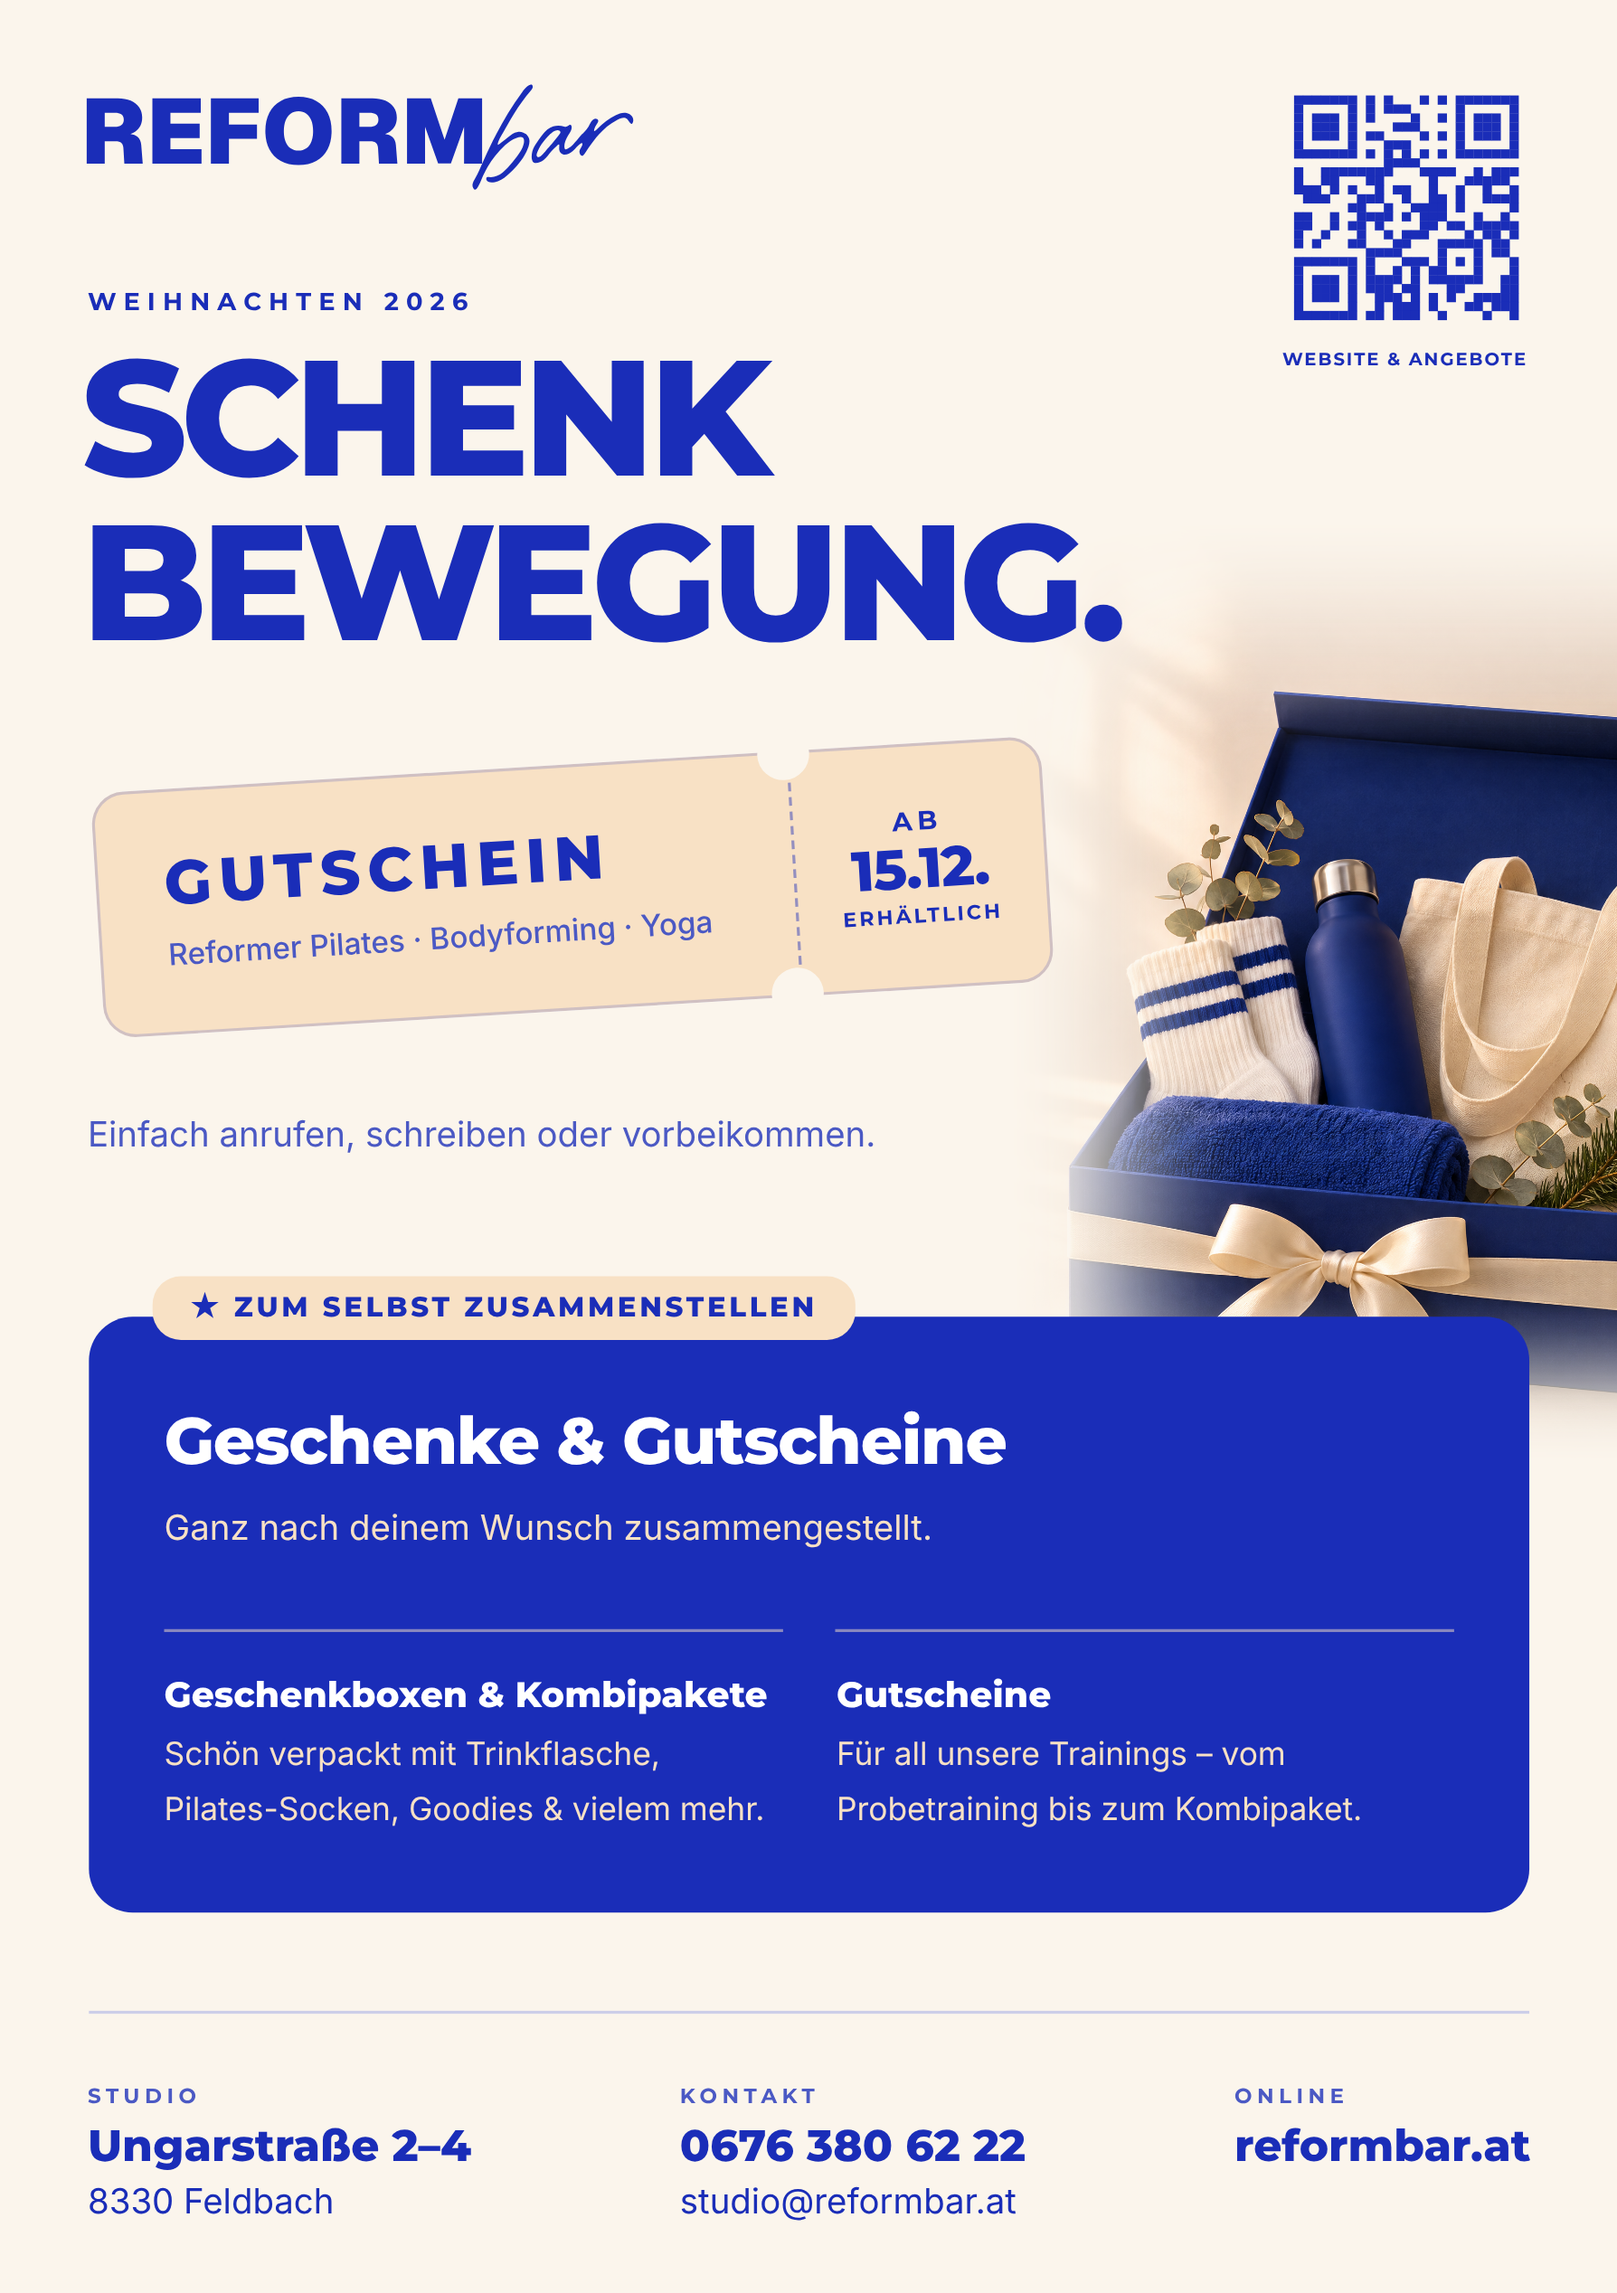
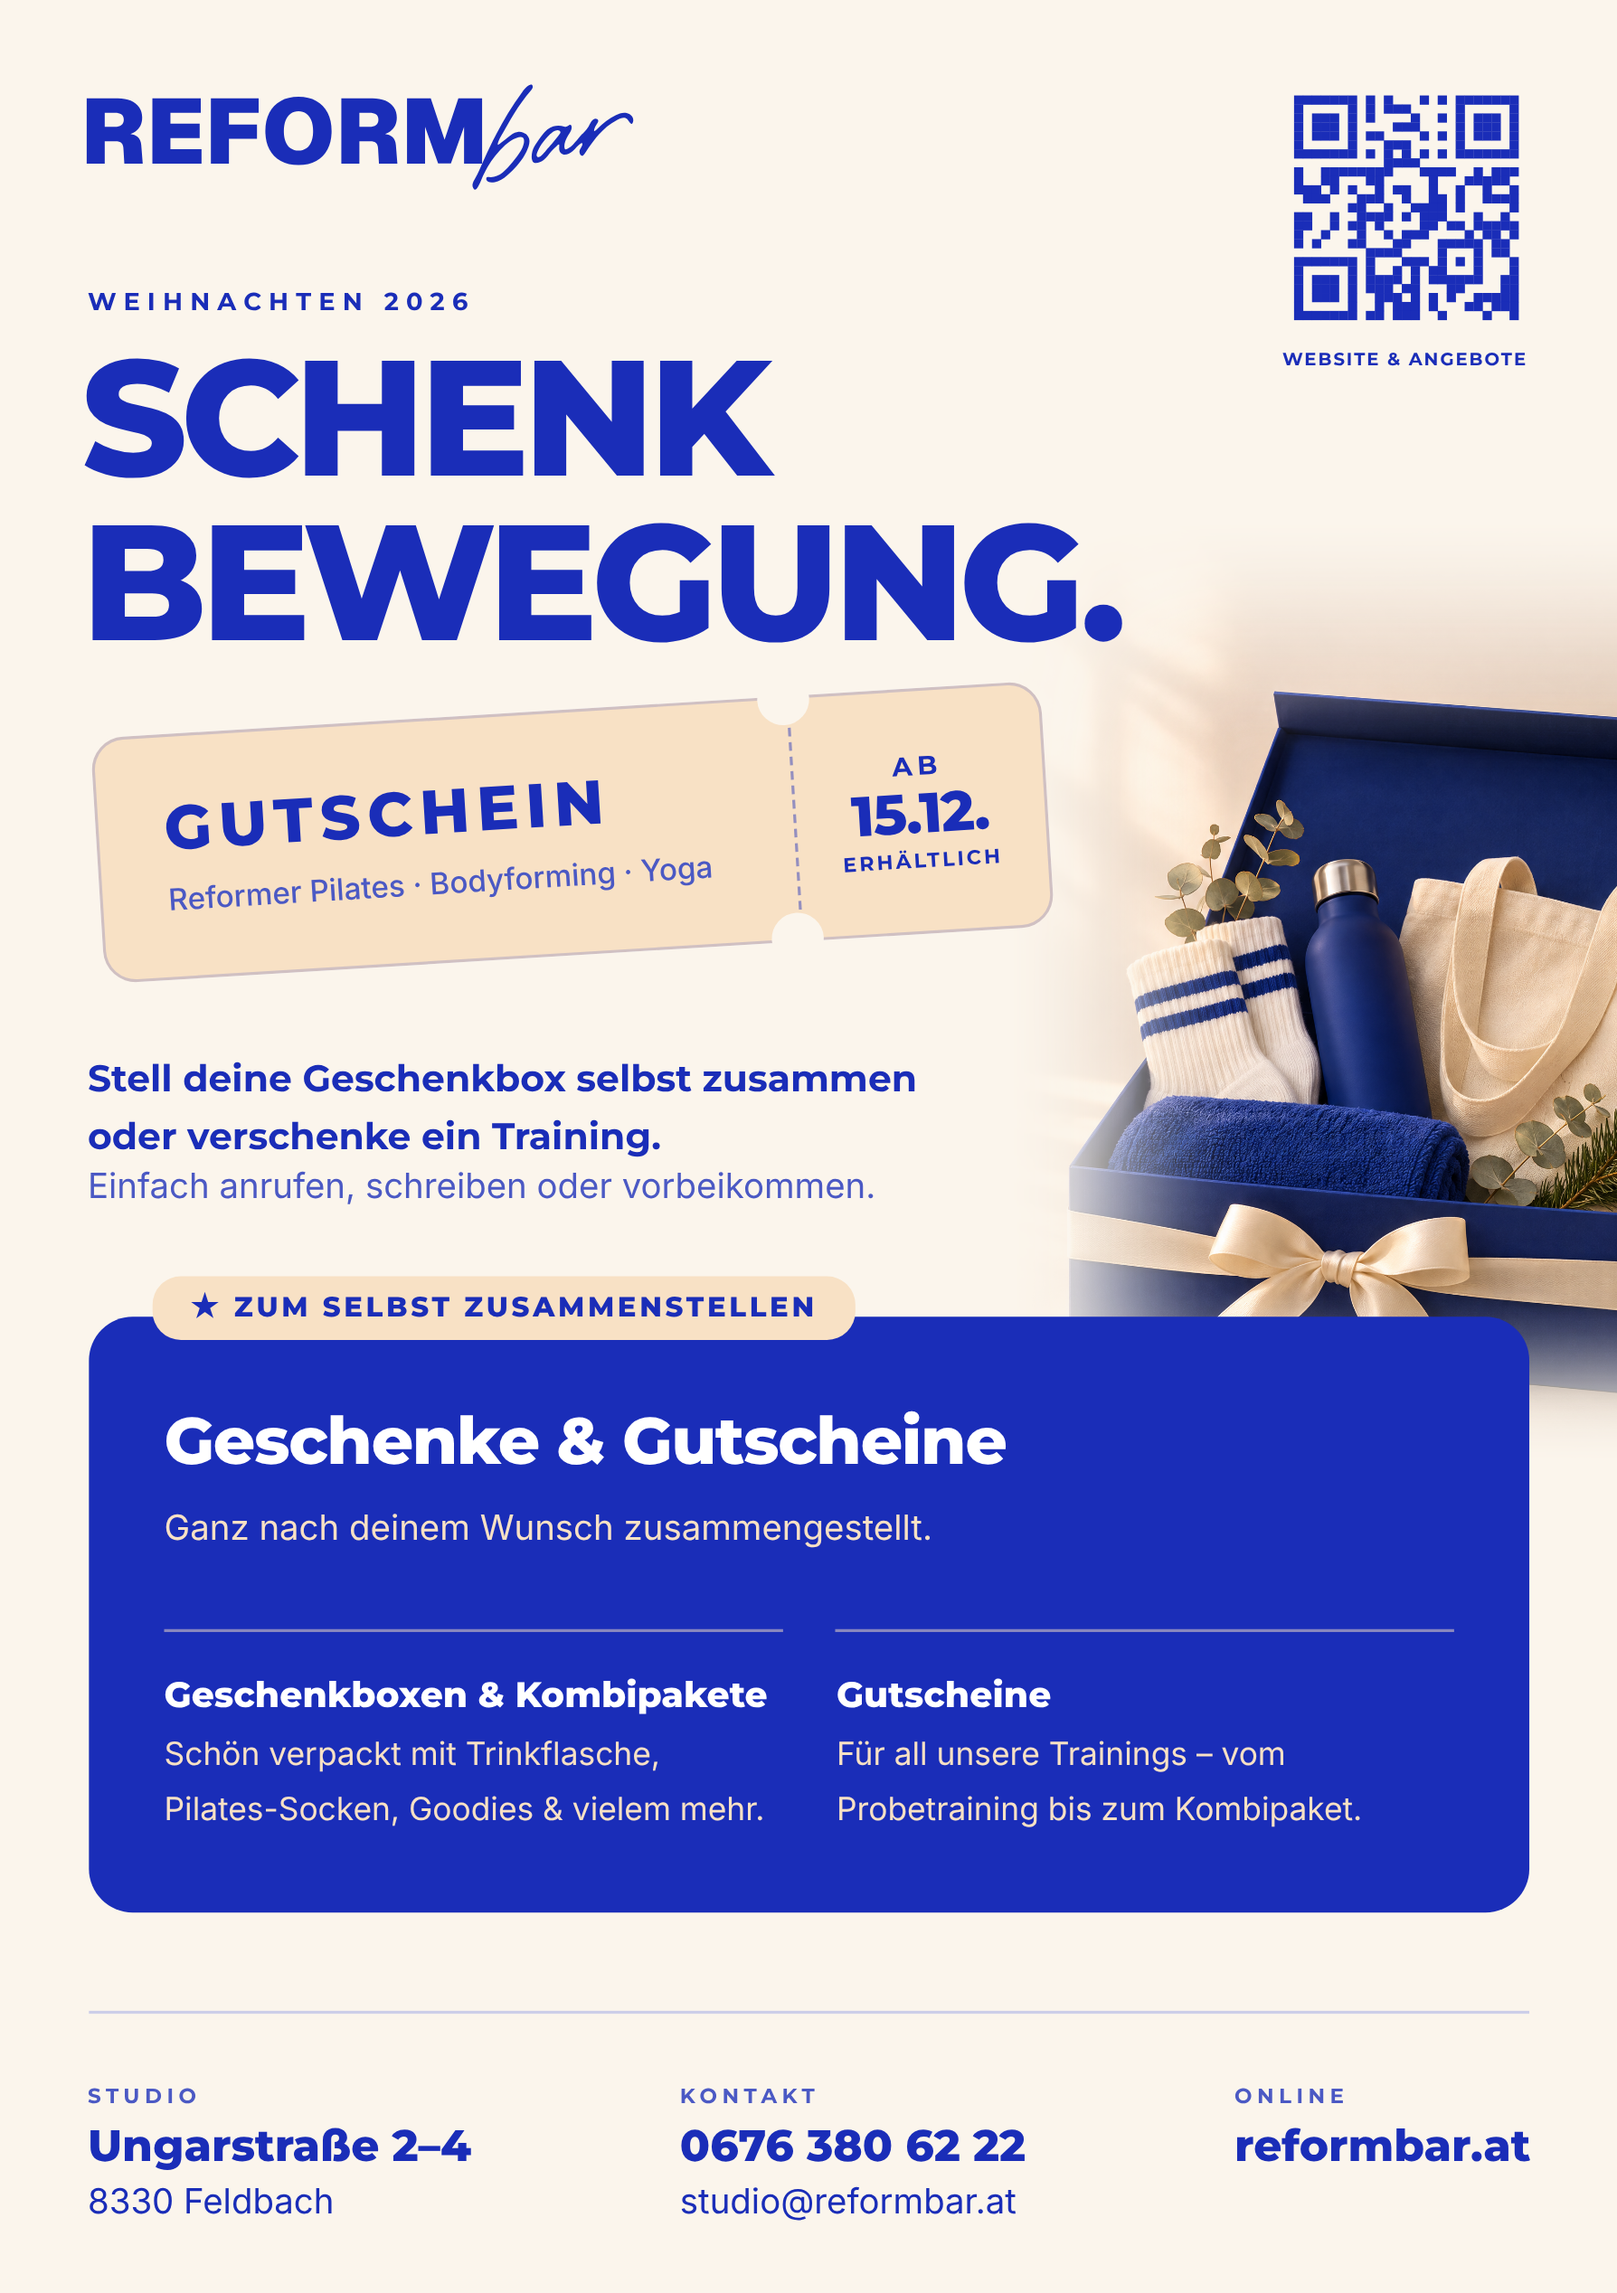
feat(reformbar): Flyer – Adresse unter Datum, Gutschein-Zusatztext
Claude-Session: https://claude.ai/code/session_01BB7Ta5Dp96iwR8EapUrt2M

Changed region(s): [[0.0308, 0.2804, 0.646, 0.5296], [0.646, 0.3738, 0.6767, 0.405]]

diff --git a/reformbar-brand/07_Flyer_Eroeffnung_Weihnachten/_generator/flyer_build.js b/reformbar-brand/07_Flyer_Eroeffnung_Weihnachten/_generator/flyer_build.js
@@ -58,6 +58,8 @@ html,body{-webkit-print-color-adjust:exact;print-color-adjust:exact}
 .tk-s1{font-family:Montserrat;font-weight:700;font-size:6.8pt;letter-spacing:.2em}
 .tk-s2{font-family:Montserrat;font-weight:800;font-size:14.5pt;letter-spacing:-.02em}
 .tk-s3{font-family:Montserrat;font-weight:700;font-size:5.2pt;letter-spacing:.14em}
+.when{display:flex;flex-direction:column;gap:3.6mm}.addr{display:flex;align-items:center;justify-content:center;gap:1.6mm;font-family:Montserrat;font-weight:700;font-size:9.4pt;color:#1A2DB8}.addr .pin{width:3.4mm;height:3.4mm}
+.tk-lead{font-family:Montserrat;font-weight:700;font-size:9.6pt;line-height:5.2mm;color:#1A2DB8;white-space:nowrap}
 .tk-note{font-size:9pt;line-height:5mm;color:#4B59C4;white-space:nowrap}
 .card .p{font-family:Montserrat;font-weight:800;font-size:8pt}
 .ord{display:grid;grid-template-columns:22mm 1fr;row-gap:3.4mm;align-items:baseline}
@@ -76,7 +78,7 @@ const front=`<div class="page" id="front"><img class="abs" id="imgF" style="left
  <g transform="translate(${X0-523*s1} ${rt1-733.5*s1}) scale(${s1})">${logo}</g></svg>
 <div class="stack" id="fs" style="bottom:9mm;gap:7.6mm">
  <div class="inv"><div class="ey tr">WIR LADEN DICH EIN</div><div class="h1 tr" id="fh" style="font-size:12.6mm;line-height:1.05;margin-left:-.5mm">NEUERÖFFNUNG</div><div class="h1 tr" style="font-size:7.2mm;letter-spacing:-.02em;margin-left:-.3mm;margin-top:1mm">IN FELDBACH</div></div>
- <div class="pill" style="align-self:stretch;justify-content:center;gap:7mm;font-size:11pt">FREITAG<i></i>15. JÄNNER 2027<i></i>18 UHR</div>
+ <div class="when"><div class="pill" style="align-self:stretch;justify-content:center;gap:7mm;font-size:11pt">FREITAG<i></i>15. JÄNNER 2027<i></i>18 UHR</div><div class="addr"><svg viewBox="0 0 24 24" class="pin"><path d="M12 22s-7-6.1-7-12a7 7 0 0 1 14 0c0 5.9-7 12-7 12z" fill="#1A2DB8"/><circle cx="12" cy="10" r="2.6" fill="#FBF5EC"/></svg><span class="tr">Ungarstraße 2–4, 8330 Feldbach</span></div></div>
  <div class="fest"><div class="lp tr">Dein neuer Lieblingsplatz.</div><div class="tr">Komm vorbei, lern uns kennen – wir freuen uns auf dich!</div></div>
  <div class="pillars">
   <div class="pc hot"><div class="pn tr">Reformer Pilates</div><div class="pd tr">Ganzkörpertraining in kleinen Gruppen.</div></div>
@@ -95,7 +97,7 @@ const back=`<div class="page" id="back"><img class="abs" id="imgB" style="width:
  <div class="tk-wrap"><div class="ticket">
   <div class="tk-main"><div class="tk-ey tr">GUTSCHEIN</div><div class="tk-txt tr">Reformer Pilates · Bodyforming · Yoga</div></div>
   <div class="tk-stub"><div class="tk-s1 tr">AB</div><div class="tk-s2 tr">15.12.</div><div class="tk-s3 tr">ERHÄLTLICH</div></div>
- </div><div class="tk-note tr">Einfach anrufen, schreiben oder vorbeikommen.</div></div>
+ </div><div style="display:flex;flex-direction:column;gap:2.4mm"><div class="tk-lead tr">Stell deine Geschenkbox selbst zusammen<br>oder verschenke ein Training.</div><div class="tk-note tr">Einfach anrufen, schreiben oder vorbeikommen.</div></div></div>
  <div class="gift" id="cards"><div class="star big tr">★ ZUM SELBST ZUSAMMENSTELLEN</div>
   <div class="n tr">Geschenke &amp; Gutscheine</div>
   <div class="sub tr">Ganz nach deinem Wunsch zusammengestellt.</div>
